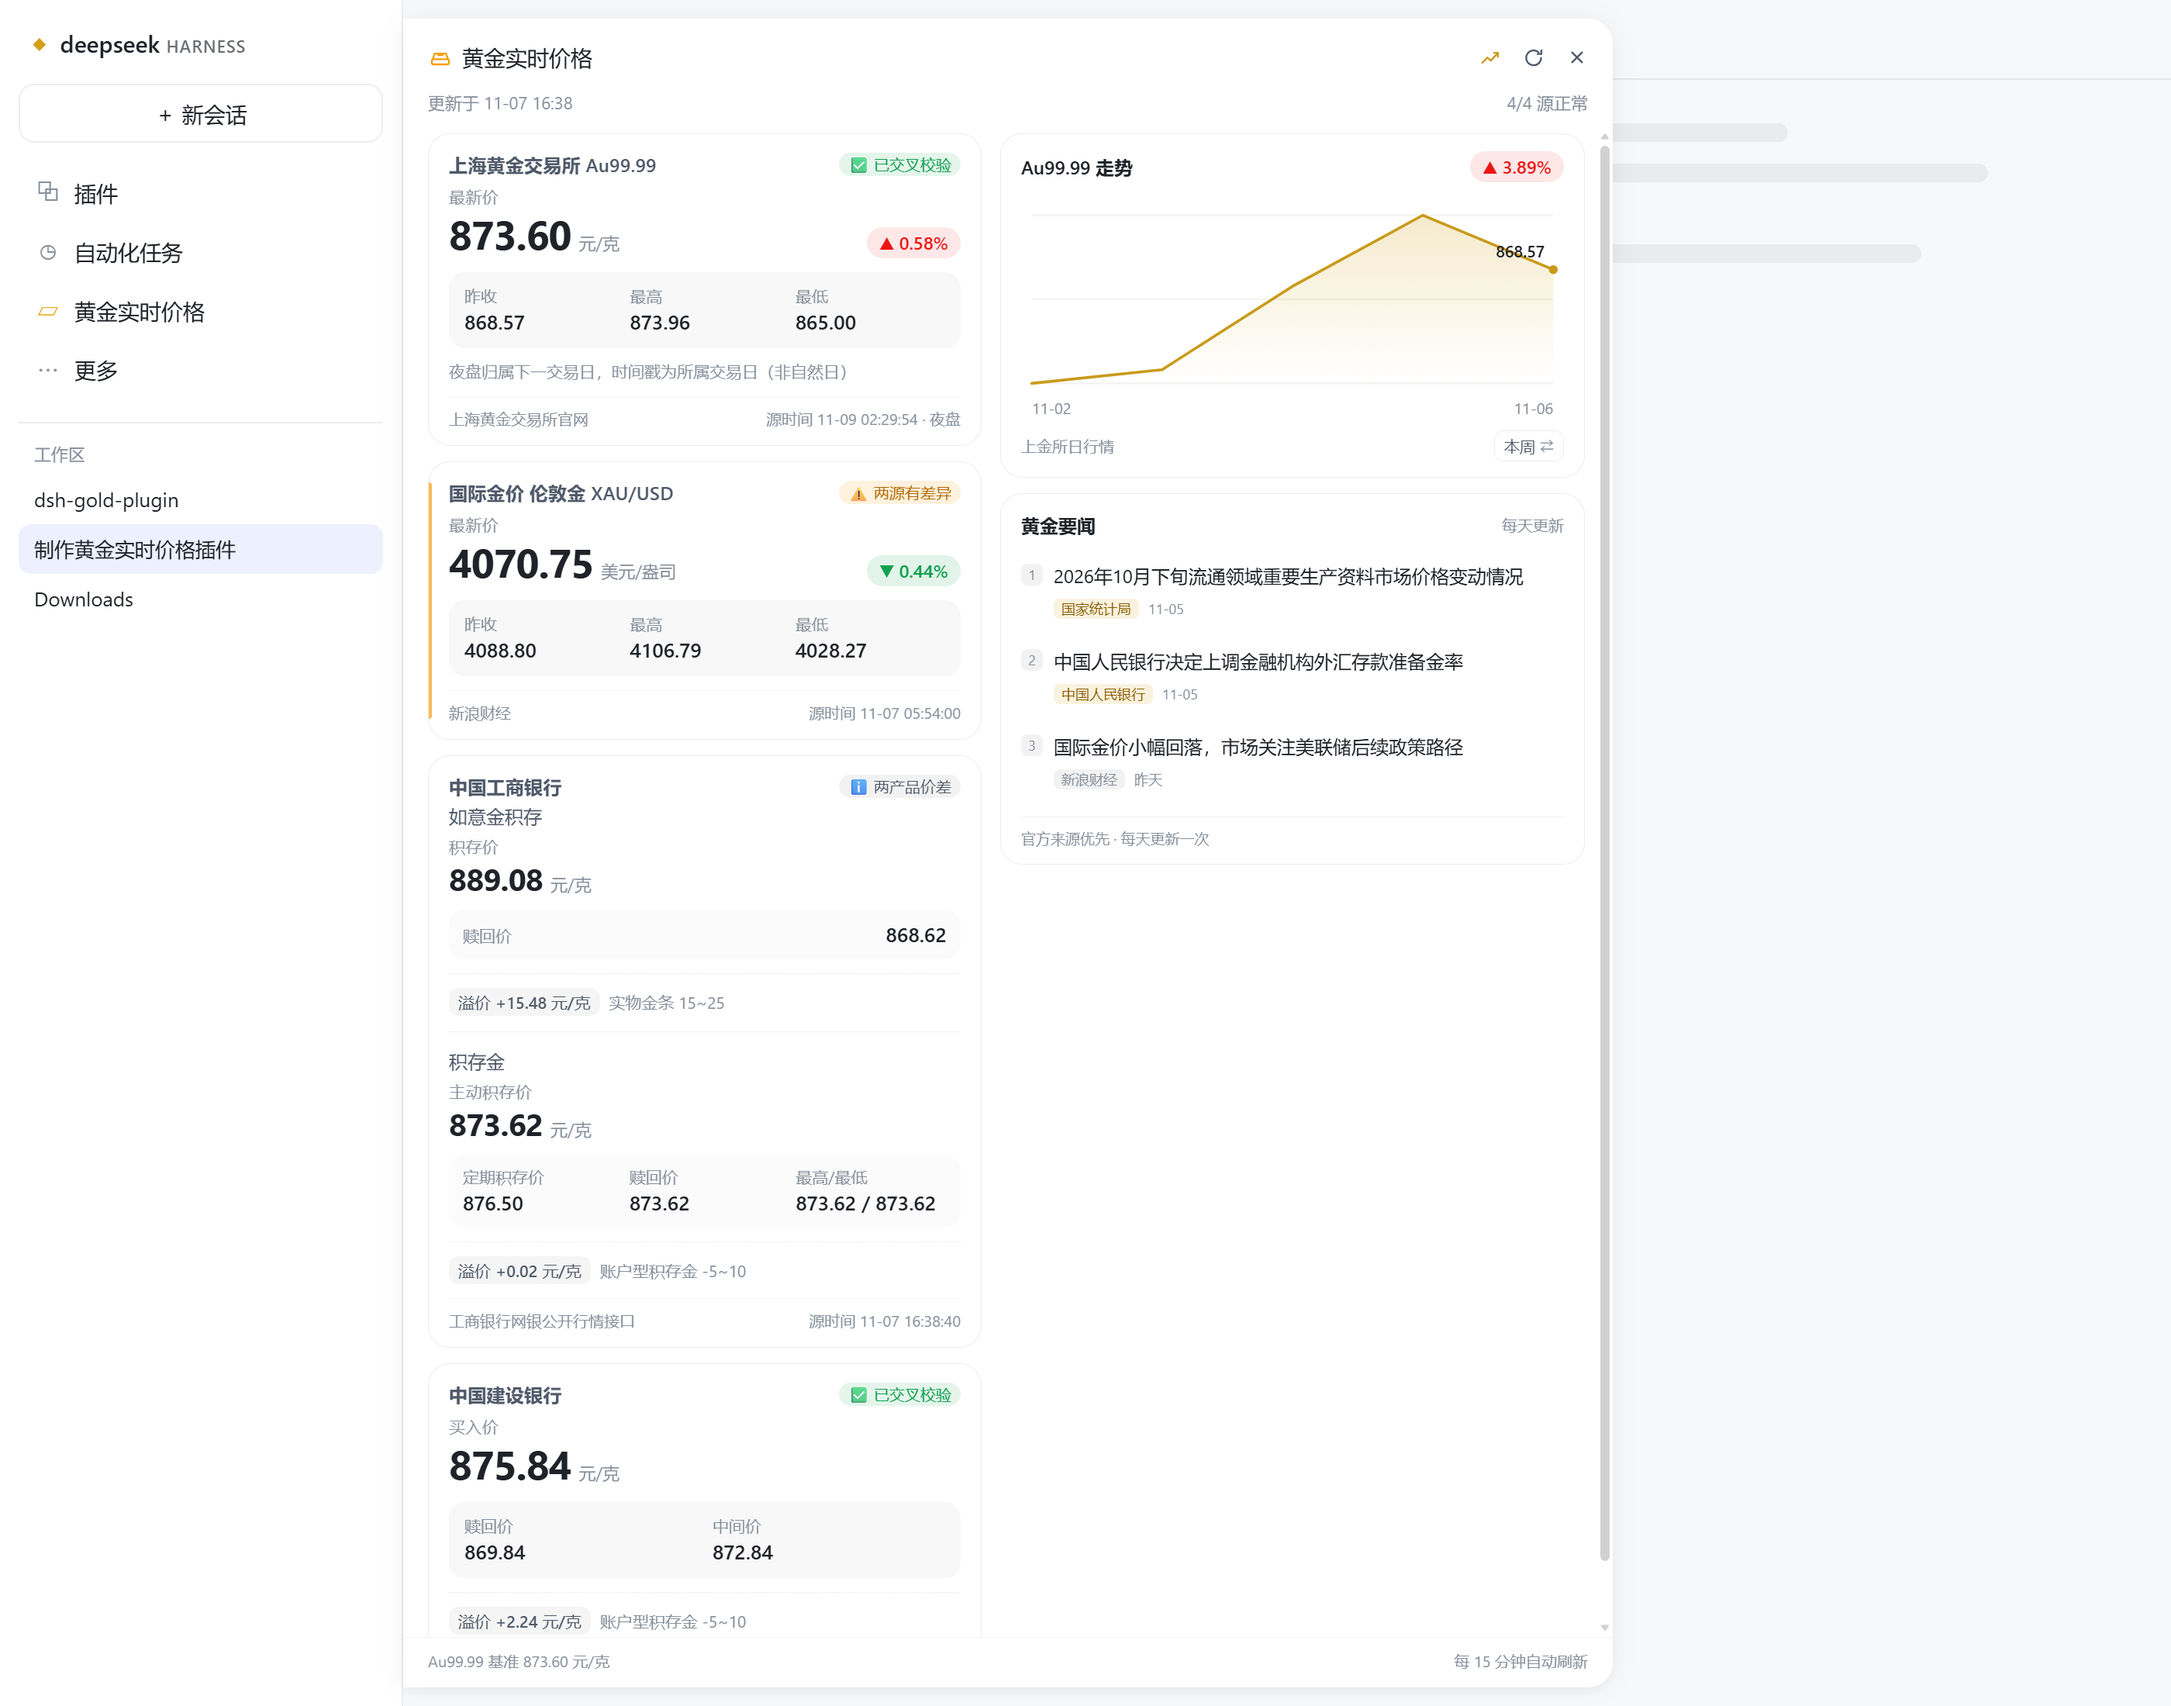
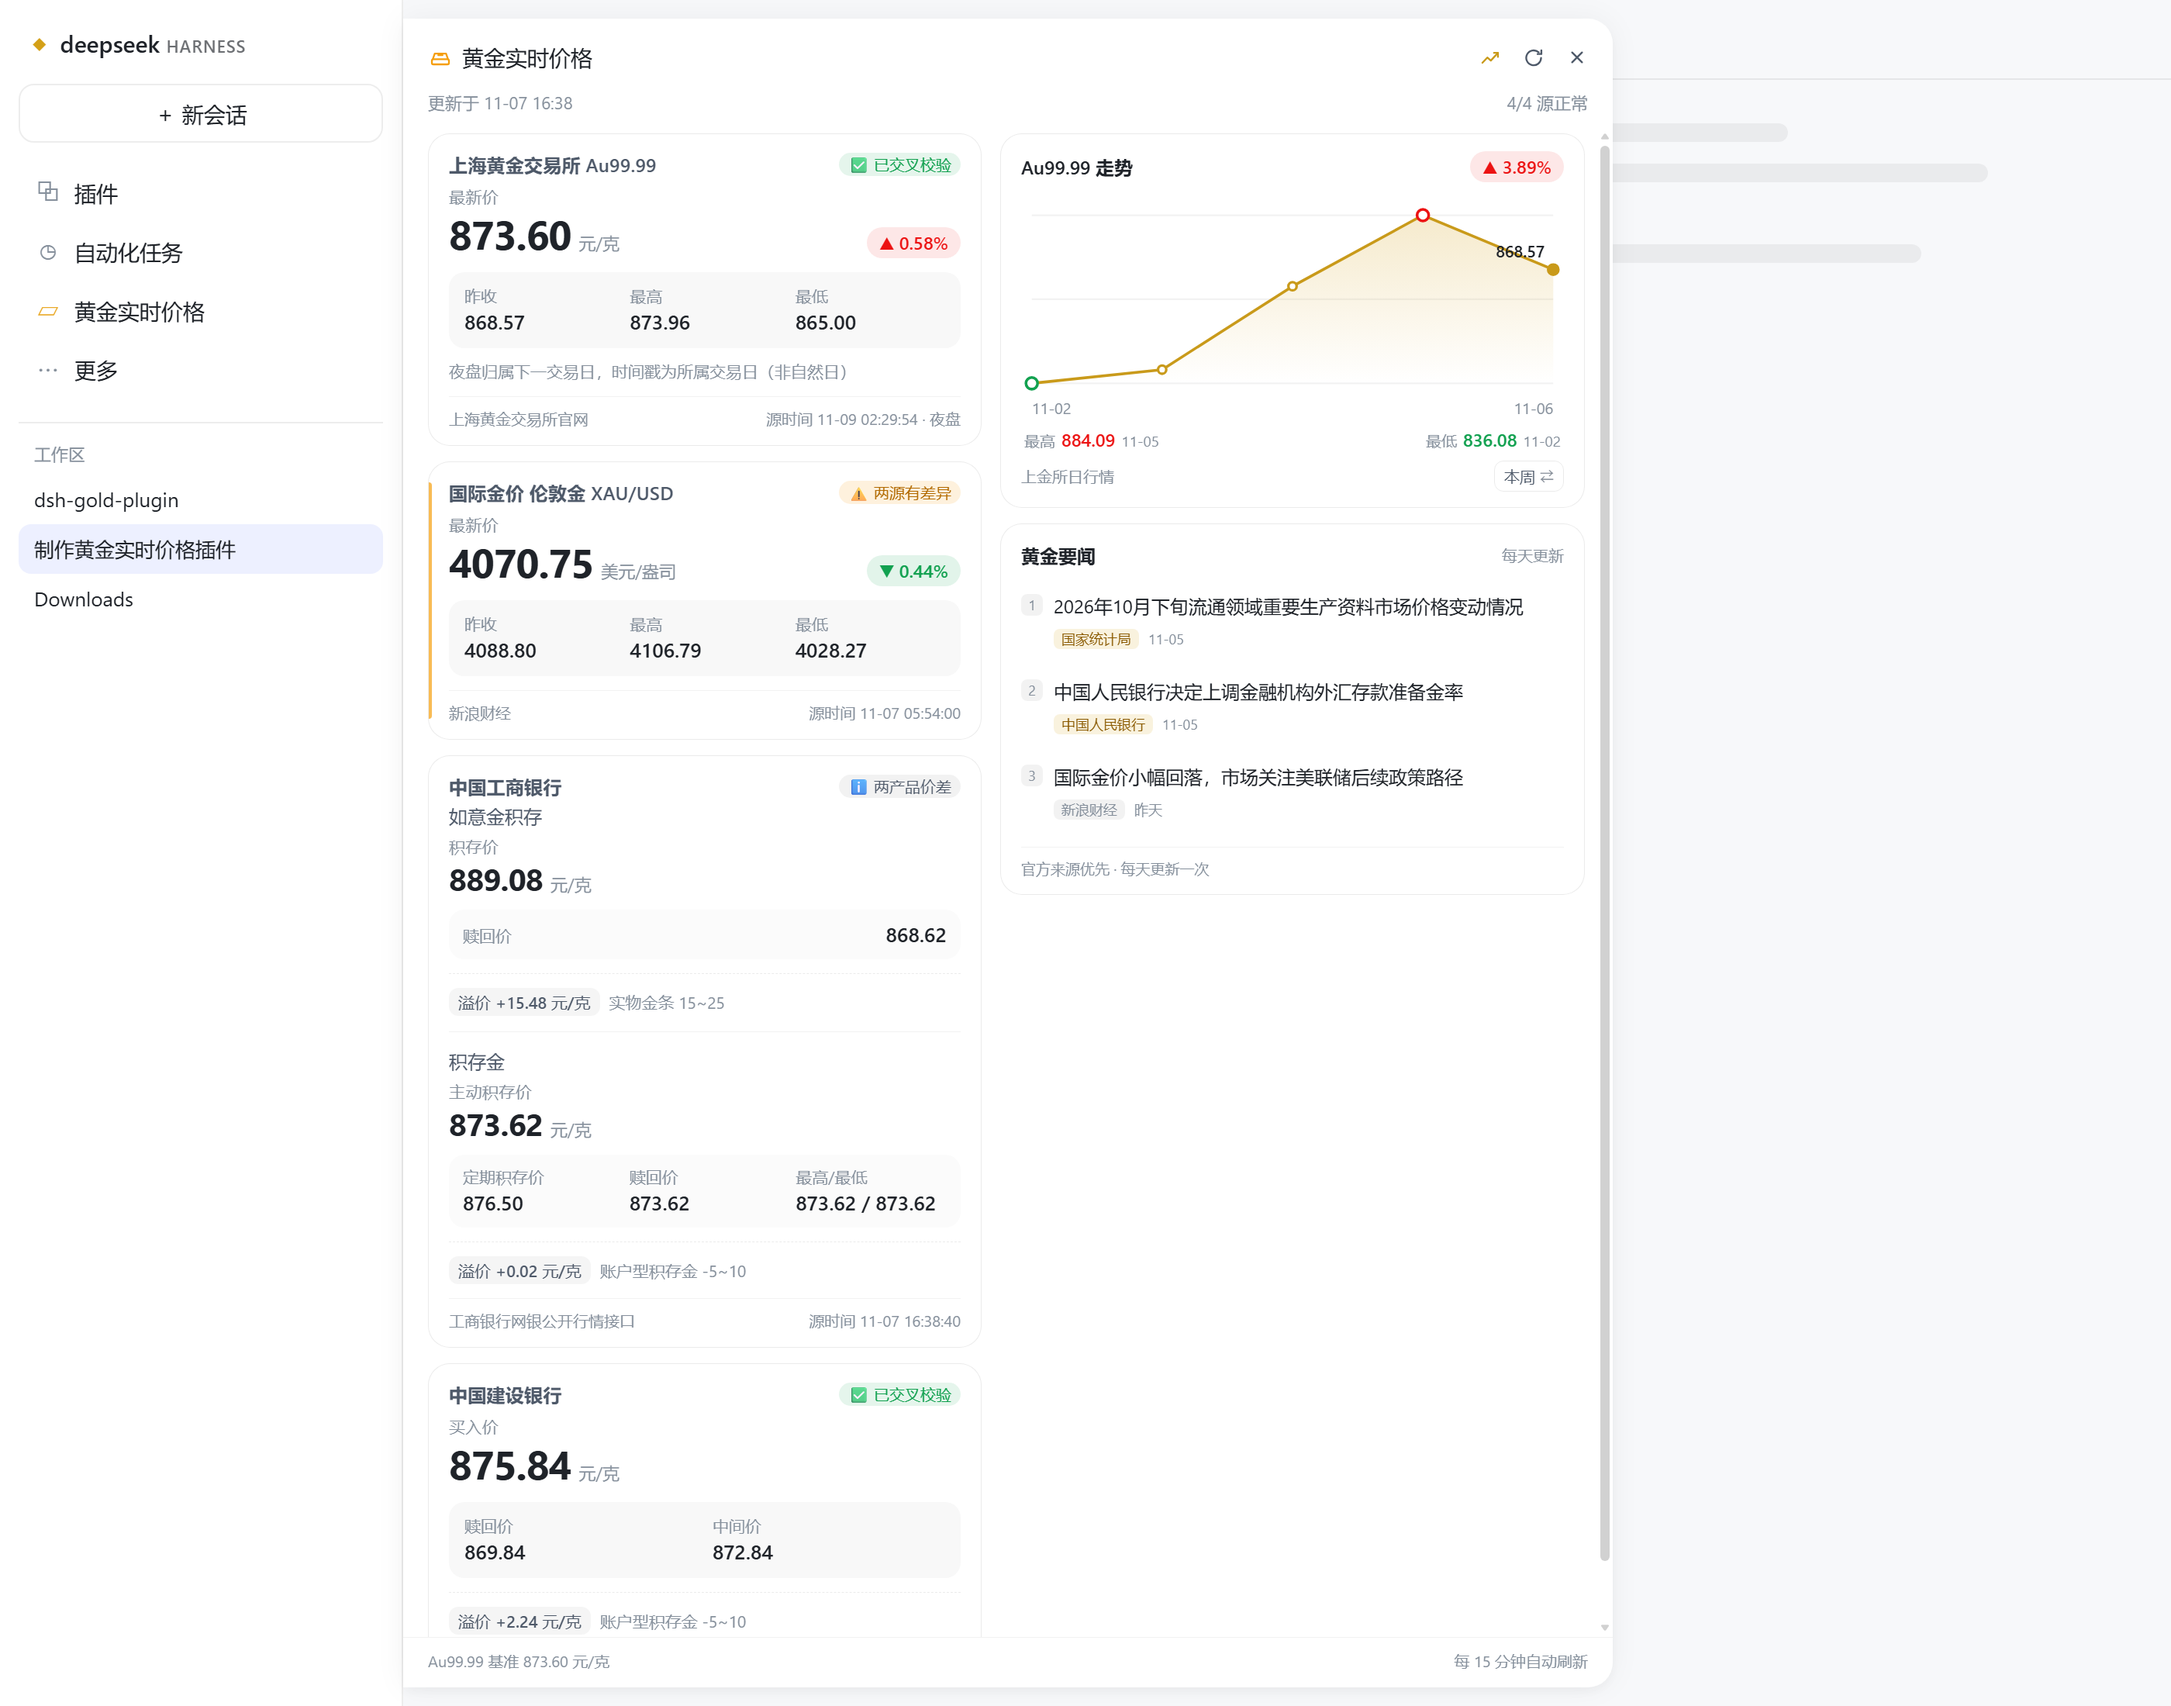
feat: v1.8.1 走势图显示区间高低点与每日圆点
- 走势图每个交易日收盘价画加粗圆点，最高/最低分别用红/绿描边强调
- 图表下方新增本周/本月最高价、最低价及其日期
- fetchChart 区间数据新增 high/low 字段，同步更新 CONTRACT 与测试

Changed region(s): [[0.4661, 0.2473, 0.7146, 0.5255], [0.6836, 0.2473, 0.7146, 0.2782]]

diff --git a/assets/panel.js b/assets/panel.js
@@ -31,7 +31,7 @@
   // 常量
   // ---------------------------------------------------------------------------
 
-  var VERSION = '3.7.0'
+  var VERSION = '3.7.1'
   var API = '/dsh-gold/api/quotes'
   var EXTRAS_API = '/dsh-gold/api/extras'
   var MOUNTED_API = '/dsh-gold/api/mounted'
@@ -736,6 +736,34 @@
     var labelX = labelAnchor === 'end' ? lastX - 5 : lastX + 5
     var labelY = Math.max(13, Math.min(H - 8, lastY - 7))
 
+    // 每天的收盘价都点一个加粗圆点；区间最高/最低用红/绿描边强调
+    var highIdx = -1
+    var lowIdx = -1
+    for (i = 0; i < pts.length; i += 1) {
+      if (rangeData.high && pts[i].date === rangeData.high.date) highIdx = i
+      if (rangeData.low && pts[i].date === rangeData.low.date) lowIdx = i
+    }
+    var dots = ''
+    for (i = 0; i < pts.length; i += 1) {
+      var dotClass = 'dsh-gold-chart-dot'
+      var dotR = 2.4
+      if (i === pts.length - 1) {
+        dotClass += ' dsh-gold-chart-dot-last'
+        dotR = 3.0
+      }
+      if (i === highIdx) {
+        dotClass += ' dsh-gold-chart-dot-high'
+        dotR = 3.4
+      }
+      if (i === lowIdx) {
+        dotClass += ' dsh-gold-chart-dot-low'
+        dotR = 3.4
+      }
+      dots +=
+        '<circle class="' + dotClass + '" cx="' + px(i).toFixed(1) + '" cy="' + py(pts[i].close).toFixed(1) +
+        '" r="' + dotR + '"><title>' + esc(pts[i].date + ' ' + fmtNum(pts[i].close)) + '</title></circle>'
+    }
+
     var svg =
       '<svg class="dsh-gold-chart-svg" viewBox="0 0 ' + W + ' ' + H + '" role="img" aria-label="Au99.99 ' +
       esc(rangeData.label || '') + '走势">' +
@@ -746,7 +774,7 @@
       grid +
       '<path class="dsh-gold-chart-area" d="' + area + '"/>' +
       '<path class="dsh-gold-chart-line" d="' + line + '"/>' +
-      '<circle class="dsh-gold-chart-dot" cx="' + lastX.toFixed(1) + '" cy="' + lastY.toFixed(1) + '" r="2.6"/>' +
+      dots +
       '<text class="dsh-gold-chart-price" x="' + labelX.toFixed(1) + '" y="' + labelY.toFixed(1) +
       '" text-anchor="' + labelAnchor + '">' + esc(fmtNum(last.close)) + '</text>' +
       '<text class="dsh-gold-chart-axis" x="' + padL + '" y="' + (H - 4) + '">' +
@@ -785,6 +813,26 @@
       html += '<div class="dsh-gold-side-empty">暂无走势数据</div>'
     } else {
       html += '<div class="dsh-gold-chart-wrap">' + chartSvg(rangeData) + '</div>'
+      if (rangeData.high || rangeData.low) {
+        html += '<div class="dsh-gold-chart-extremes">'
+        if (rangeData.high) {
+          html +=
+            '<span class="dsh-gold-extreme dsh-gold-extreme-high">' +
+            '<span class="dsh-gold-extreme-label">最高</span>' +
+            '<span class="dsh-gold-extreme-value">' + esc(fmtNum(rangeData.high.close)) + '</span>' +
+            '<span class="dsh-gold-extreme-date">' + esc(String(rangeData.high.date || '')) + '</span>' +
+            '</span>'
+        }
+        if (rangeData.low) {
+          html +=
+            '<span class="dsh-gold-extreme dsh-gold-extreme-low">' +
+            '<span class="dsh-gold-extreme-label">最低</span>' +
+            '<span class="dsh-gold-extreme-value">' + esc(fmtNum(rangeData.low.close)) + '</span>' +
+            '<span class="dsh-gold-extreme-date">' + esc(String(rangeData.low.date || '')) + '</span>' +
+            '</span>'
+        }
+        html += '</div>'
+      }
       if (rangeData.note) {
         html += '<div class="dsh-gold-side-note">' + esc(rangeData.note) + '</div>'
       }
@@ -2107,3 +2155,5 @@
 
   start()
 })()
+
+

diff --git a/assets/panel.css b/assets/panel.css
@@ -947,7 +947,69 @@
 }
 
 .dsh-gold-chart-dot {
+  fill: var(--dsw-alias-bg-layer-1, #ffffff);
+  stroke: #c99a1a;
+  stroke-width: 1.5;
+}
+
+/* 最后一个点实心金色，方便一眼看到「现在」 */
+.dsh-gold-chart-dot-last {
   fill: #c99a1a;
+}
+
+/* 区间最高 / 最低：空心红/绿描边，比普通点大一圈 */
+.dsh-gold-chart-dot-high {
+  stroke: var(--dsw-alias-state-error-primary, #ec1313);
+  stroke-width: 1.6;
+}
+
+.dsh-gold-chart-dot-low {
+  stroke: var(--dsw-alias-state-success-primary, #12a150);
+  stroke-width: 1.6;
+}
+
+/* 图下方：本周/本月最高、最低价格 */
+.dsh-gold-chart-extremes {
+  display: flex;
+  align-items: baseline;
+  justify-content: space-between;
+  gap: 10px;
+  margin-top: 5px;
+  padding: 0 2px;
+}
+
+.dsh-gold-extreme {
+  display: inline-flex;
+  align-items: baseline;
+  gap: 4px;
+  min-width: 0;
+  font-size: 10px;
+  line-height: 14px;
+}
+
+.dsh-gold-extreme-label {
+  color: var(--dsw-alias-label-tertiary, #86909c);
+}
+
+.dsh-gold-extreme-value {
+  color: var(--dsw-alias-label-primary, #1f2329);
+  font-size: 11.5px;
+  font-weight: 600;
+  font-variant-numeric: tabular-nums;
+}
+
+.dsh-gold-extreme-high .dsh-gold-extreme-value {
+  color: var(--dsw-alias-state-error-primary, #ec1313);
+}
+
+.dsh-gold-extreme-low .dsh-gold-extreme-value {
+  color: var(--dsw-alias-state-success-primary, #12a150);
+}
+
+.dsh-gold-extreme-date {
+  color: var(--dsw-alias-label-tertiary, #86909c);
+  font-size: 9.5px;
+  font-variant-numeric: tabular-nums;
 }
 
 .dsh-gold-chart-price {
@@ -1177,3 +1239,4 @@
     animation: none;
   }
 }
+

diff --git a/CONTRACT.md b/CONTRACT.md
@@ -171,12 +171,16 @@ apply() 里在路由注册完成后，用 `webServer.readResource(new Request('h
         "label": "本周",
         "points": [ {"date":"11-02","close":836.08}, {"date":"11-06","close":868.57} ],
         "change": { "value": 32.49, "pct": 3.89 },
+        "high": { "date": "11-05", "close": 884.09 },
+        "low": { "date": "11-02", "close": 836.08 },
         "fromDate": "2026-11-02", "toDate": "2026-11-06", "note": null
       },
       "month": {
         "label": "本月",
         "points": [ {"date":"10-09","close":904.48}, {"date":"11-06","close":868.57} ],
         "change": { "value": -35.91, "pct": -3.97 },
+        "high": { "date": "10-09", "close": 904.48 },
+        "low": { "date": "11-02", "close": 836.08 },
         "fromDate": "2026-10-09", "toDate": "2026-11-06",
         "note": "本月交易日不足，显示近 22 个交易日"
       }
